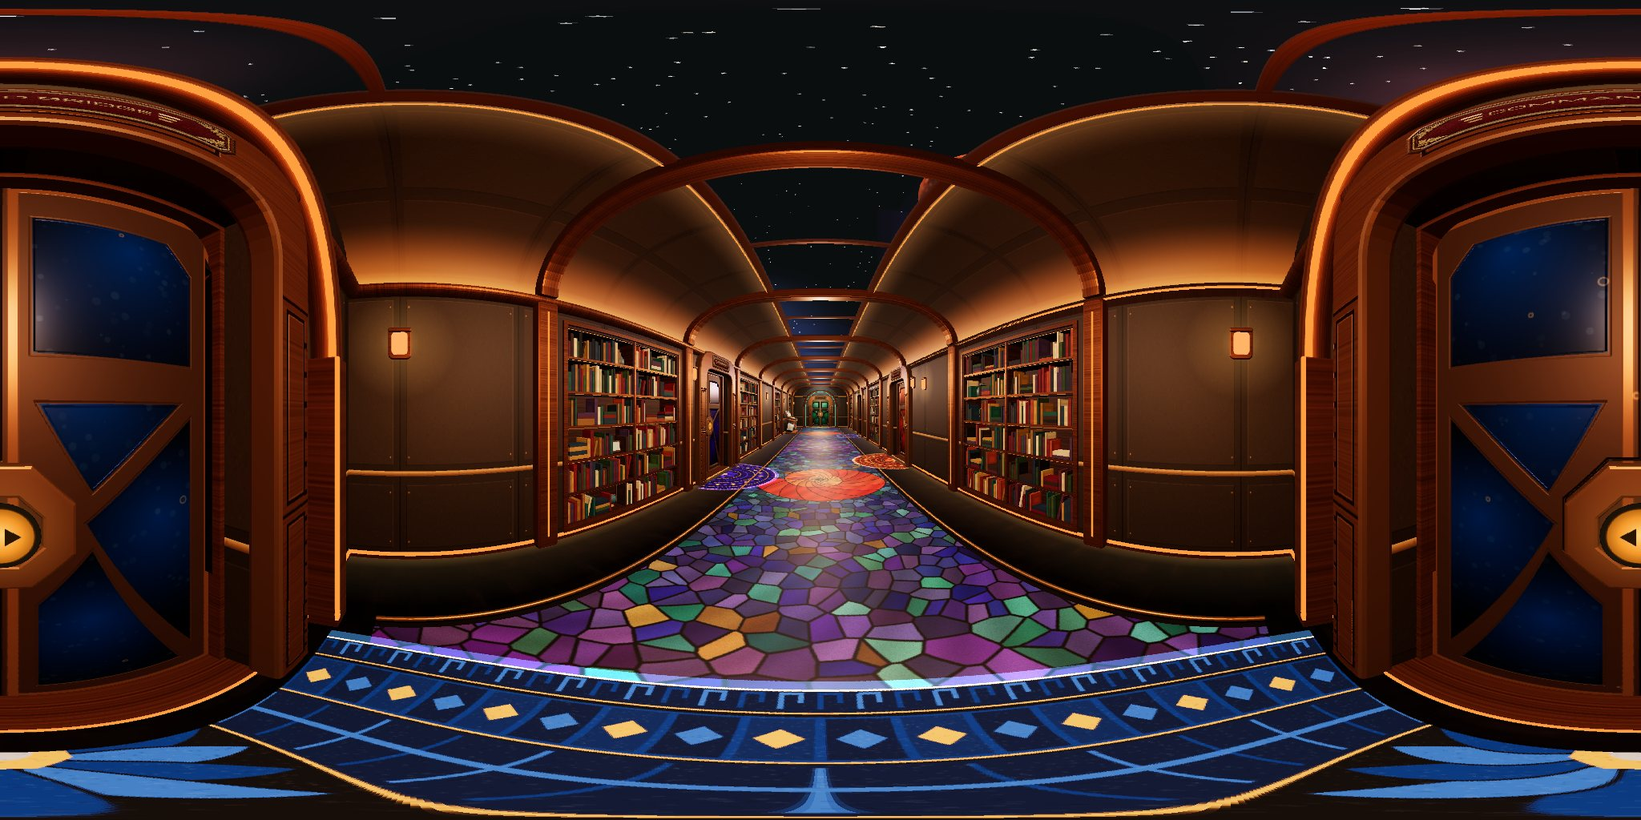
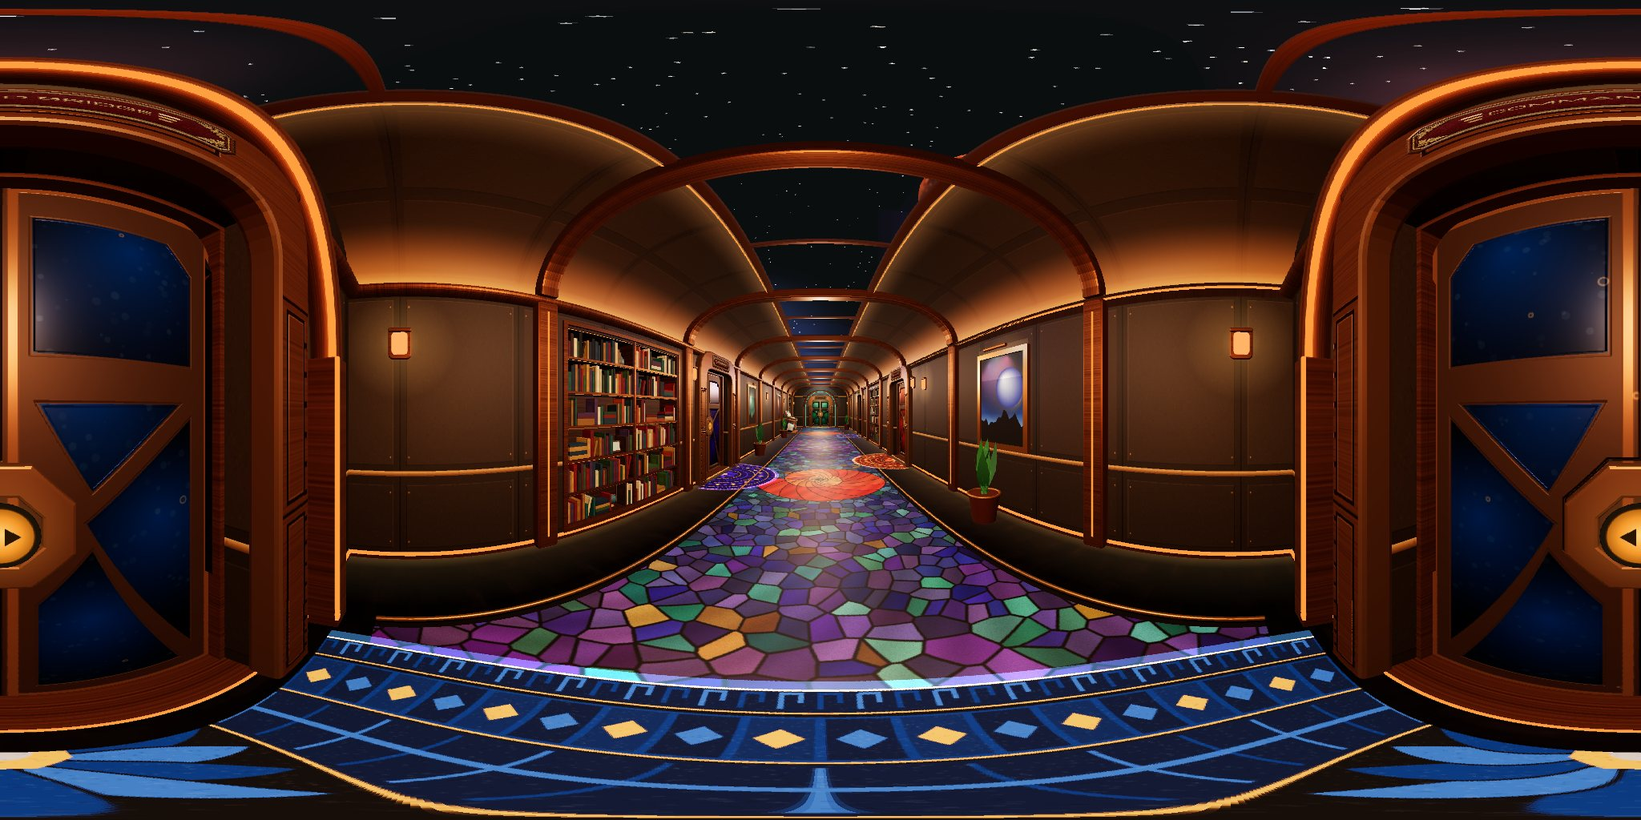
Corridor: paintings + potted plants in the freed alcoves; all portal photos regenerated
Claude-Session: https://claude.ai/code/session_015swmRW9rk9HZt8JyLRwsXT

Changed region(s): [[0.5625, 0.375, 0.6562, 0.6562], [0.4375, 0.4688, 0.5, 0.5625]]

diff --git a/index.html b/index.html
@@ -20,20 +20,20 @@
   <meta property="og:image:height" content="630">
   <meta property="og:image:alt" content="The copper SS Wayfarer, its teal library dome glowing, cruising above a night-side planet.">
   <meta name="twitter:card" content="summary_large_image">
-  <script src="textures.js?v=20261127d"></script>
+  <script src="textures.js?v=20261127e"></script>
   <script src="https://aframe.io/releases/1.5.0/aframe.min.js"></script>
-  <script src="mobile.js?v=20261127d"></script>
-  <script src="life.js?v=20261127d"></script>
-  <script src="manual.js?v=20261127d"></script>
-  <script src="menubar.js?v=20261127d"></script>
-  <script src="ai.js?v=20261127d"></script>
-  <script src="sound.js?v=20261127d"></script>
-  <script src="avatar.js?v=20261127d"></script>
-  <script src="door.js?v=20261127d"></script>
-  <script src="lcars.js?v=20261127d"></script>
-  <script src="crew.js?v=20261127d"></script>
-  <script src="repairs.js?v=20261127d"></script>
-  <script src="hyperspace.js?v=20261127d"></script>
+  <script src="mobile.js?v=20261127e"></script>
+  <script src="life.js?v=20261127e"></script>
+  <script src="manual.js?v=20261127e"></script>
+  <script src="menubar.js?v=20261127e"></script>
+  <script src="ai.js?v=20261127e"></script>
+  <script src="sound.js?v=20261127e"></script>
+  <script src="avatar.js?v=20261127e"></script>
+  <script src="door.js?v=20261127e"></script>
+  <script src="lcars.js?v=20261127e"></script>
+  <script src="crew.js?v=20261127e"></script>
+  <script src="repairs.js?v=20261127e"></script>
+  <script src="hyperspace.js?v=20261127e"></script>
   <style>
     * { margin: 0; padding: 0; box-sizing: border-box; }
     body { overflow: hidden; background: #000; }
@@ -466,7 +466,7 @@
 
       buildCeiling(root, M, aniso);
       buildFloor(root, M, aniso);
-      buildRugs(root, aniso);
+      buildRugs(root, aniso); buildArt(root);
       buildPortals(root, M);
 
       // soft light splashes on the wall around each sconce (additive, cheap)
@@ -568,6 +568,42 @@
       x.globalCompositeOperation = 'source-over';
       var t = mkTex(c); t.wrapS = t.wrapT = THREE.ClampToEdgeWrapping; return t;
     }
+    // ART + PLANTS in the alcoves freed by cutting the bookcases (user, Nov 26: fewer bookcases, more props): a painted canvas in a
+    // bronze frame with a little picture light, and a potted plant on the deck under it. Paintings are drawn here (original art).
+    function paintCanvas(kind) {
+      var c = document.createElement('canvas'); c.width = 384; c.height = 512; var x = c.getContext('2d'), sd = 7 + kind * 31, r = function () { sd = (sd * 16807) % 2147483647; return sd / 2147483647; };
+      var skies = [['#0b1030', '#3a1a5a', '#e07a4a'], ['#06222a', '#145a5a', '#e8c070'], ['#1a0a10', '#5a1a2a', '#ffb060'], ['#081028', '#1a3a7a', '#9ad8ff']][kind];
+      var g = x.createLinearGradient(0, 0, 0, 512); g.addColorStop(0, skies[0]); g.addColorStop(0.65, skies[1]); g.addColorStop(1, skies[2]); x.fillStyle = g; x.fillRect(0, 0, 384, 512);
+      for (var i = 0; i < 160; i++) { x.fillStyle = 'rgba(255,255,240,' + r() * 0.8 + ')'; x.fillRect(r() * 384, r() * 300, 1.5, 1.5); }
+      x.globalAlpha = 0.35; for (i = 0; i < 6; i++) { var ng = x.createRadialGradient(r() * 384, r() * 260, 0, 192, 160, 160 + r() * 80); ng.addColorStop(0, ['#ff7ad0', '#7affe0', '#ffd27a', '#9a8aff'][(kind + i) % 4]); ng.addColorStop(1, 'rgba(0,0,0,0)'); x.fillStyle = ng; x.fillRect(0, 0, 384, 512); } x.globalAlpha = 1;
+      var pr = 60 + kind * 18, px = 110 + kind * 50, py = 150 + (kind % 2) * 40, pg = x.createRadialGradient(px - pr * 0.4, py - pr * 0.4, 4, px, py, pr);
+      pg.addColorStop(0, ['#ffd0a0', '#c8fff0', '#ffe0b0', '#d0e8ff'][kind]); pg.addColorStop(1, ['#8a3a20', '#1a6a5a', '#7a2a10', '#2a3a8a'][kind]); x.fillStyle = pg; x.beginPath(); x.arc(px, py, pr, 0, 6.283); x.fill();
+      if (kind % 2 === 0) { x.strokeStyle = 'rgba(255,220,170,.55)'; x.lineWidth = 3; x.beginPath(); x.ellipse(px, py, pr * 1.7, pr * 0.32, -0.3, 0, 6.283); x.stroke(); }
+      x.fillStyle = '#0a0608'; x.beginPath(); x.moveTo(0, 512); for (var k = 0; k <= 384; k += 24) x.lineTo(k, 400 - r() * 70 - Math.sin(k / 50 + kind) * 20); x.lineTo(384, 512); x.fill();   // horizon ridge
+      for (i = 0; i < 9000; i++) { x.fillStyle = 'rgba(' + (r() < 0.5 ? '0,0,0' : '255,240,220') + ',' + r() * 0.05 + ')'; x.fillRect(r() * 384, r() * 512, 2, 2); }   // brush texture
+      var t = new THREE.CanvasTexture(c); t.colorSpace = THREE.SRGBColorSpace; return t;
+    }
+    function buildArt(root) {
+      var SPOTS = [{ W: 'L', c: -3 }, { W: 'L', c: 3 }, { W: 'R', c: -9 }, { W: 'R', c: 9 }];
+      var bronze = new THREE.MeshStandardMaterial({ color: 0xc08040, metalness: 0.85, roughness: 0.32 }), potM = new THREE.MeshStandardMaterial({ color: 0x6a3a22, metalness: 0.5, roughness: 0.45 });
+      var leafM = [0x2f6a34, 0x3f8a3e, 0x245a30].map(function (c) { return new THREE.MeshStandardMaterial({ color: c, roughness: 0.7, side: THREE.DoubleSide }); });
+      var leafG = new THREE.PlaneGeometry(0.16, 0.62, 1, 4); leafG.translate(0, 0.31, 0);
+      var lp = leafG.attributes.position; for (var i = 0; i < lp.count; i++) { var yy = lp.getY(i); lp.setX(i, lp.getX(i) * Math.sin(Math.PI * yy / 0.62 + 0.05)); lp.setZ(i, yy * yy * 0.5); }
+      leafG.computeVertexNormals();
+      SPOTS.forEach(function (q, n) {
+        var W = WALLS[q.W], g = new THREE.Group(); g.position.set(W.s * (W.base - 0.06), 0, q.c); g.rotation.y = W.s < 0 ? Math.PI / 2 : -Math.PI / 2; root.add(g);
+        var art = new THREE.Mesh(new THREE.PlaneGeometry(0.96, 1.28), new THREE.MeshStandardMaterial({ map: paintCanvas(n), roughness: 0.8, emissive: 0xffffff, emissiveMap: null, emissiveIntensity: 0 }));
+        art.material.emissiveMap = art.material.map; art.material.emissiveIntensity = 0.35; art.position.set(0, 1.75, 0.04); g.add(art);
+        [[0, 0.68, 1.12, 0.08], [0, -0.68, 1.12, 0.08], [-0.52, 0, 0.08, 1.44], [0.52, 0, 0.08, 1.44]].forEach(function (f) { var b = new THREE.Mesh(new THREE.BoxGeometry(f[2], f[3], 0.06), bronze); b.position.set(f[0], 1.75 + f[1], 0.04); g.add(b); });
+        var lamp = new THREE.Mesh(new THREE.CylinderGeometry(0.025, 0.025, 0.5, 10), bronze); lamp.rotation.z = Math.PI / 2; lamp.position.set(0, 2.5, 0.16); g.add(lamp);
+        var glow = new THREE.Mesh(new THREE.PlaneGeometry(1.1, 0.5), new THREE.MeshBasicMaterial({ color: 0xffb060, transparent: true, opacity: 0.12, blending: THREE.AdditiveBlending, depthWrite: false })); glow.position.set(0, 2.3, 0.05); g.add(glow);
+        var pot = new THREE.Mesh(new THREE.CylinderGeometry(0.22, 0.16, 0.42, 20), potM); pot.position.set(0, 0.21, 0.34); g.add(pot);
+        var rim = new THREE.Mesh(new THREE.TorusGeometry(0.22, 0.02, 8, 24), bronze); rim.rotation.x = Math.PI / 2; rim.position.set(0, 0.42, 0.34); g.add(rim);
+        for (var k = 0; k < 14; k++) { var lf = new THREE.Mesh(leafG, leafM[k % 3]), a = k / 14 * Math.PI * 2 + n; lf.position.set(Math.cos(a) * 0.05, 0.4, 0.34 + Math.sin(a) * 0.05);
+          lf.rotation.set(0, -a + Math.PI / 2, 0); lf.rotateX(-0.25 - (k % 3) * 0.18); lf.scale.setScalar(0.8 + (k % 4) * 0.15); g.add(lf); }
+      });
+    }
+
     function buildRugs(root, aniso) {
       var RR = 1.3;
       DOORS.forEach(function (d, i) {

diff --git a/bridge.html b/bridge.html
@@ -21,19 +21,19 @@
   <meta property="og:image:alt" content="The copper SS Wayfarer, its teal library dome glowing, cruising above a night-side planet.">
   <meta name="twitter:card" content="summary_large_image">
   <script src="https://aframe.io/releases/1.5.0/aframe.min.js"></script>
-  <script src="mobile.js?v=20261127d"></script>
-  <script src="life.js?v=20261127d"></script>
-  <script src="manual.js?v=20261127d"></script>
-  <script src="menubar.js?v=20261127d"></script>
-  <script src="ai.js?v=20261127d"></script>
-  <script src="sound.js?v=20261127d"></script>
-  <script src="avatar.js?v=20261127d"></script>
-  <script src="door.js?v=20261127d"></script>
-  <script src="hyperspace.js?v=20261127d"></script>
-  <script src="shipskin.js?v=20261127d"></script>
-  <script src="lcars.js?v=20261127d"></script>
-  <script src="crew.js?v=20261127d"></script>
-  <script src="repairs.js?v=20261127d"></script>
+  <script src="mobile.js?v=20261127e"></script>
+  <script src="life.js?v=20261127e"></script>
+  <script src="manual.js?v=20261127e"></script>
+  <script src="menubar.js?v=20261127e"></script>
+  <script src="ai.js?v=20261127e"></script>
+  <script src="sound.js?v=20261127e"></script>
+  <script src="avatar.js?v=20261127e"></script>
+  <script src="door.js?v=20261127e"></script>
+  <script src="hyperspace.js?v=20261127e"></script>
+  <script src="shipskin.js?v=20261127e"></script>
+  <script src="lcars.js?v=20261127e"></script>
+  <script src="crew.js?v=20261127e"></script>
+  <script src="repairs.js?v=20261127e"></script>
   <script>if (/[?&]from=flight/.test(location.search)) document.documentElement.className += ' from-flight'; if (/[?&]from=fly/.test(location.search)) document.documentElement.className += ' from-fly';</script>
   <style>html.from-fly, html.from-fly body { background:#1a0e06; } #fly-fade { position:fixed; inset:0; z-index:59; pointer-events:none; opacity:0; background:radial-gradient(circle at 50% 50%, #ffb060 0%, #5a2a0c 45%, #120804 100%); } html.from-fly #fly-fade { opacity:1; }</style>
   <style>

diff --git a/library.html b/library.html
@@ -23,24 +23,24 @@
   <meta name="theme-color" content="#000208">
   <meta name="apple-mobile-web-app-capable" content="yes">
   <meta name="mobile-web-app-capable" content="yes">
-  <script src="textures.js?v=20261127d"></script>
+  <script src="textures.js?v=20261127e"></script>
   <script src="https://aframe.io/releases/1.5.0/aframe.min.js"></script>
-  <script src="brain.js?v=20261127d"></script>
-  <script src="mobile.js?v=20261127d"></script>
-  <script src="life.js?v=20261127d"></script>
-  <script src="manual.js?v=20261127d"></script>
-  <script src="menubar.js?v=20261127d"></script>
-  <script src="ai.js?v=20261127d"></script>
-  <script src="sound.js?v=20261127d"></script>
-  <script src="avatar.js?v=20261127d"></script>
-  <script src="door.js?v=20261127d"></script>
-  <script src="lcars.js?v=20261127d"></script>
-  <script src="starmap.js?v=20261127d"></script>
-  <script src="wp-console.js?v=20261127d"></script>
-  <script src="crew.js?v=20261127d"></script>
-  <script src="repairs.js?v=20261127d"></script>
-  <script src="props.js?v=20261127d"></script>
-  <script src="hyperspace.js?v=20261127d"></script>
+  <script src="brain.js?v=20261127e"></script>
+  <script src="mobile.js?v=20261127e"></script>
+  <script src="life.js?v=20261127e"></script>
+  <script src="manual.js?v=20261127e"></script>
+  <script src="menubar.js?v=20261127e"></script>
+  <script src="ai.js?v=20261127e"></script>
+  <script src="sound.js?v=20261127e"></script>
+  <script src="avatar.js?v=20261127e"></script>
+  <script src="door.js?v=20261127e"></script>
+  <script src="lcars.js?v=20261127e"></script>
+  <script src="starmap.js?v=20261127e"></script>
+  <script src="wp-console.js?v=20261127e"></script>
+  <script src="crew.js?v=20261127e"></script>
+  <script src="repairs.js?v=20261127e"></script>
+  <script src="props.js?v=20261127e"></script>
+  <script src="hyperspace.js?v=20261127e"></script>
   <style>
     * { margin: 0; padding: 0; box-sizing: border-box; }
     body { overflow: hidden; background: #000; }

diff --git a/lounge.html b/lounge.html
@@ -20,23 +20,23 @@
   <meta property="og:image:height" content="630">
   <meta property="og:image:alt" content="The copper SS Wayfarer, its teal library dome glowing, cruising above a night-side planet.">
   <meta name="twitter:card" content="summary_large_image">
-  <script src="textures.js?v=20261127d"></script>
+  <script src="textures.js?v=20261127e"></script>
   <script src="https://aframe.io/releases/1.5.0/aframe.min.js"></script>
-  <script src="mobile.js?v=20261127d"></script>
-  <script src="life.js?v=20261127d"></script>
-  <script src="manual.js?v=20261127d"></script>
-  <script src="menubar.js?v=20261127d"></script>
-  <script src="ai.js?v=20261127d"></script>
-  <script src="sound.js?v=20261127d"></script>
-  <script src="avatar.js?v=20261127d"></script>
-  <script src="door.js?v=20261127d"></script>
-  <script src="lcars.js?v=20261127d"></script>
-  <script src="crew.js?v=20261127d"></script>
-  <script src="repairs.js?v=20261127d"></script>
-  <script src="cards.js?v=20261127d"></script>
-  <script src="alien-tv.js?v=20261127d"></script>
-  <script src="props.js?v=20261127d"></script>
-  <script src="hyperspace.js?v=20261127d"></script>
+  <script src="mobile.js?v=20261127e"></script>
+  <script src="life.js?v=20261127e"></script>
+  <script src="manual.js?v=20261127e"></script>
+  <script src="menubar.js?v=20261127e"></script>
+  <script src="ai.js?v=20261127e"></script>
+  <script src="sound.js?v=20261127e"></script>
+  <script src="avatar.js?v=20261127e"></script>
+  <script src="door.js?v=20261127e"></script>
+  <script src="lcars.js?v=20261127e"></script>
+  <script src="crew.js?v=20261127e"></script>
+  <script src="repairs.js?v=20261127e"></script>
+  <script src="cards.js?v=20261127e"></script>
+  <script src="alien-tv.js?v=20261127e"></script>
+  <script src="props.js?v=20261127e"></script>
+  <script src="hyperspace.js?v=20261127e"></script>
   <style>
     * { margin: 0; padding: 0; box-sizing: border-box; }
     body { overflow: hidden; background: #000; }

diff --git a/holodeck.html b/holodeck.html
@@ -31,21 +31,21 @@
     g.beginPath(); g.moveTo(0,0); g.lineTo(0,128); g.stroke();
     window.GRID_TEX = gc.toDataURL();
   </script>
-  <script src="textures.js?v=20261127d"></script>
+  <script src="textures.js?v=20261127e"></script>
   <script src="https://aframe.io/releases/1.5.0/aframe.min.js"></script>
-  <script src="mobile.js?v=20261127d"></script>
-  <script src="life.js?v=20261127d"></script>
-  <script src="manual.js?v=20261127d"></script>
-  <script src="menubar.js?v=20261127d"></script>
-  <script src="ai.js?v=20261127d"></script>
-  <script src="sound.js?v=20261127d"></script>
-  <script src="avatar.js?v=20261127d"></script>
-  <script src="door.js?v=20261127d"></script>
-  <script src="lcars.js?v=20261127d"></script>
-  <script src="crew.js?v=20261127d"></script>
-  <script src="repairs.js?v=20261127d"></script>
-  <script src="props.js?v=20261127d"></script>
-  <script src="holo-games.js?v=20261127d"></script>
+  <script src="mobile.js?v=20261127e"></script>
+  <script src="life.js?v=20261127e"></script>
+  <script src="manual.js?v=20261127e"></script>
+  <script src="menubar.js?v=20261127e"></script>
+  <script src="ai.js?v=20261127e"></script>
+  <script src="sound.js?v=20261127e"></script>
+  <script src="avatar.js?v=20261127e"></script>
+  <script src="door.js?v=20261127e"></script>
+  <script src="lcars.js?v=20261127e"></script>
+  <script src="crew.js?v=20261127e"></script>
+  <script src="repairs.js?v=20261127e"></script>
+  <script src="props.js?v=20261127e"></script>
+  <script src="holo-games.js?v=20261127e"></script>
   <style>
     * { margin:0; padding:0; box-sizing:border-box; }
     body { overflow:hidden; background:#000; }

diff --git a/media.html b/media.html
@@ -21,18 +21,18 @@
   <meta property="og:image:alt" content="The copper SS Wayfarer, its teal library dome glowing, cruising above a night-side planet.">
   <meta name="twitter:card" content="summary_large_image">
   <script src="https://aframe.io/releases/1.5.0/aframe.min.js"></script>
-  <script src="mobile.js?v=20261127d"></script>
-  <script src="life.js?v=20261127d"></script>
-  <script src="manual.js?v=20261127d"></script>
-  <script src="menubar.js?v=20261127d"></script>
-  <script src="ai.js?v=20261127d"></script>
-  <script src="sound.js?v=20261127d"></script>
-  <script src="avatar.js?v=20261127d"></script>
-  <script src="door.js?v=20261127d"></script>
-  <script src="lcars.js?v=20261127d"></script>
-  <script src="crew.js?v=20261127d"></script>
-  <script src="repairs.js?v=20261127d"></script>
-  <script src="props.js?v=20261127d"></script>
+  <script src="mobile.js?v=20261127e"></script>
+  <script src="life.js?v=20261127e"></script>
+  <script src="manual.js?v=20261127e"></script>
+  <script src="menubar.js?v=20261127e"></script>
+  <script src="ai.js?v=20261127e"></script>
+  <script src="sound.js?v=20261127e"></script>
+  <script src="avatar.js?v=20261127e"></script>
+  <script src="door.js?v=20261127e"></script>
+  <script src="lcars.js?v=20261127e"></script>
+  <script src="crew.js?v=20261127e"></script>
+  <script src="repairs.js?v=20261127e"></script>
+  <script src="props.js?v=20261127e"></script>
   <style>
     * { margin: 0; padding: 0; box-sizing: border-box; }
     body { overflow: hidden; background: #000; }

diff --git a/station.html b/station.html
@@ -14,14 +14,14 @@
   <link rel="icon" href="/aspentrail/icons/favicon.ico?v=2">
   <script>if (/[?&]from=dock/.test(location.search)) document.documentElement.className += ' from-dock';</script>
   <script src="https://aframe.io/releases/1.5.0/aframe.min.js"></script>
-  <script src="mobile.js?v=20261127d"></script>
-  <script src="life.js?v=20261127d"></script>
-  <script src="manual.js?v=20261127d"></script>
-  <script src="menubar.js?v=20261127d"></script>
-  <script src="sound.js?v=20261127d"></script>
-  <script src="avatar.js?v=20261127d"></script>
-  <script src="lcars.js?v=20261127d"></script>
-  <script src="missions.js?v=20261127d"></script>
+  <script src="mobile.js?v=20261127e"></script>
+  <script src="life.js?v=20261127e"></script>
+  <script src="manual.js?v=20261127e"></script>
+  <script src="menubar.js?v=20261127e"></script>
+  <script src="sound.js?v=20261127e"></script>
+  <script src="avatar.js?v=20261127e"></script>
+  <script src="lcars.js?v=20261127e"></script>
+  <script src="missions.js?v=20261127e"></script>
   <style>
     * { margin: 0; padding: 0; box-sizing: border-box; }
     body { overflow: hidden; background: #000; }
@@ -441,6 +441,6 @@
   }
 }());
 </script>
-<script src="hiveport-games.js?v=20261127d"></script>
+<script src="hiveport-games.js?v=20261127e"></script>
 </body>
 </html>

diff --git a/station-ember-room.html b/station-ember-room.html
@@ -14,11 +14,11 @@
   <link rel="icon" href="/aspentrail/icons/favicon.ico?v=2">
   <script>if (/[?&]from=dock/.test(location.search)) document.documentElement.className += ' from-dock';</script>
   <script src="https://aframe.io/releases/1.5.0/aframe.min.js"></script>
-  <script src="mobile.js?v=20261127d"></script>
-  <script src="sound.js?v=20261127d"></script>
-  <script src="avatar.js?v=20261127d"></script>
-  <script src="lcars.js?v=20261127d"></script>
-  <script src="missions.js?v=20261127d"></script>
+  <script src="mobile.js?v=20261127e"></script>
+  <script src="sound.js?v=20261127e"></script>
+  <script src="avatar.js?v=20261127e"></script>
+  <script src="lcars.js?v=20261127e"></script>
+  <script src="missions.js?v=20261127e"></script>
   <style>
     * { margin: 0; padding: 0; box-sizing: border-box; }
     body { overflow: hidden; background: #000; }

diff --git a/minigame.html b/minigame.html
@@ -22,10 +22,10 @@
   <meta name="twitter:card" content="summary_large_image">
   <script src="https://cdnjs.cloudflare.com/ajax/libs/three.js/r128/three.min.js"></script>
   <script src="https://cdn.jsdelivr.net/npm/three@0.128.0/examples/js/loaders/GLTFLoader.js"></script>
-  <script src="shipskin.js?v=20261127d"></script>
-  <script src="missions.js?v=20261127d"></script>
-  <script src="sound.js?v=20261127d"></script>
-  <script src="life.js?v=20261127d"></script>
+  <script src="shipskin.js?v=20261127e"></script>
+  <script src="missions.js?v=20261127e"></script>
+  <script src="sound.js?v=20261127e"></script>
+  <script src="life.js?v=20261127e"></script>
   <script>if (/[?&]from=(bridge|station)/.test(location.search)) document.documentElement.className += ' from-bridge';</script>
   <style>
     * { margin: 0; padding: 0; box-sizing: border-box; }

diff --git a/hangar.html b/hangar.html
@@ -14,7 +14,7 @@
   <link rel="icon" href="/aspentrail/icons/favicon.ico?v=2">
   <script src="https://cdnjs.cloudflare.com/ajax/libs/three.js/r128/three.min.js"></script>
   <script src="https://cdn.jsdelivr.net/npm/three@0.128.0/examples/js/loaders/GLTFLoader.js"></script>
-  <script src="shipskin.js?v=20261127d"></script>
+  <script src="shipskin.js?v=20261127e"></script>
   <script src="https://cdn.jsdelivr.net/npm/three@0.128.0/examples/js/controls/OrbitControls.js"></script>
   <style>
     * { margin: 0; padding: 0; box-sizing: border-box; }

diff --git a/CLAUDE.md b/CLAUDE.md
@@ -60,7 +60,7 @@ Rules drawn from them:
 - A-Frame 1.5.0 from the aframe.io CDN, no build step, plain HTML/JS
 - GitHub Pages deploys from branch `claude/hello-mssbj4` (site: spawnshark.github.io/aspentrail).
   Session work happens on a `claude/...` branch; it is live only after it reaches `claude/hello-mssbj4`.
-- Local scripts are loaded with `?v=<date+letter>` (Safari cached old door.js/mobile.js) — bump it in every page on each push (now 20261127d).
+- Local scripts are loaded with `?v=<date+letter>` (Safari cached old door.js/mobile.js) — bump it in every page on each push (now 20261127e).
 - Shared scripts: `textures.js` (procedural textures), `mobile.js` (touch controls, Nov 24 v3 — user: "like it was in the
   beginning"): NO bar. Two floating frosted-glass thumbsticks in the bottom corners: left = analog walk joystick, right = look
   stick. MENU BAR (Nov 25, user: "like the Mac's menu bar"): #wf-btns is a slim 30 px frosted bar across the TOP on every
@@ -365,7 +365,7 @@ Record of everything asked for; tick items off as they ship.
 - [x] COMMAND DECK: no bookshelves (wallDisplays() instead of plantShelfAt: per wall bay a 1.5×0.84 LCARS screen, two small ones and a status strip in bronze frames, 6 shared lcars textures); NAVIGATOR = giant barred-spiral Milky Way hologram (buildOrb: 14k / 6k-phone stars, R 3.3, tilt 0.78, bar + 4 log-spiral arms, YOU-ARE-HERE cyan pulse, cone + 3 rings) over a bronze emitter at the bow (ORB_Z −6.4, NAV_C y 2.35); blooms while navigating (NAV_FX.want); the kit Planet_Selector GLB is no longer loaded; tap → sit, then the galactic map
 - [x] Ship/deck map (life.js renderMap): blueprint SVG 520×860 — true room shapes (Bridge outline from WAYFARER.bounds, round rooms, square Holodeck grid) with REAL furniture footprints from maps/deck.json (baked from each page's mobile.js solids scan, contained boxes merged; REBAKE when a room's furniture changes), corridor + runner + bookcases, doorways, hull with engine pods, navigator galaxy; LIVE layer every 0.4 s: you (cyan arrow = facing), droids/cats with names, blinking ⚠ faults; rooms scale SR 7 px/m, corridor stretched KC 20 px/m
 - [x] Lounge ALIEN TV (`alien-tv.js`): 7 ORIGINAL canvas-drawn channels (KNN K'Vetar news + ticker, Glorpo's Kitchen, Nebula Nature Hour, Cryovale Weather, Bioship Grand Prix, Mandible Mints ad, The Talking Rock), scanlines, tap = static burst + next channel, babble/jingles only within 8.5 m; the old browser panel is no longer opened. WINDOW: wall gap ±28.6° (theta-start 208.6 / length 302.8), 8 × 4.4 m rounded-rect opening with bronze extruded frame, amber glow line, two mullions
-- [~] More props all over the ship [ ]; Library bookshelves with more variety/colour [x] (library.html shelfTexture: 5 painted variants; material re-applied after A-Frame's own lands); FEWER bookcases in the corridor [x] (SHELVES 7 → 3: L −9, R 0, L 9; maps/deck.json shelves updated)
+- [~] More props all over the ship [~ corridor done: index.html buildArt() = 4 original painted canvases (paintCanvas: planets/nebulae/ridges) in bronze frames with picture lights + potted plants in the freed alcoves L −3, L 3, R −9, R 9; other rooms still to do]; Library bookshelves with more variety/colour [x] (library.html shelfTexture: 5 painted variants; material re-applied after A-Frame's own lands); FEWER bookcases in the corridor [x] (SHELVES 7 → 3: L −9, R 0, L 9; maps/deck.json shelves updated)
 - [ ] BELOW DECK (new level, industrial alien vibe) for all new rooms (quarters, galley, medbay, cruiser hangar…); the two Library back doors become two STAIRCASES down to it
 - [x] STAR GARDEN → `starmap.js` (library.html only): bronze STAR MAP lectern at the centre of the glass floor; tap → beam to the dome, galaxy (16k / 7k-phone stars, bar + 4 arms, R 7 at y 6.1 under the dome) unfolds while your view tilts up to pitch 1.25; every nav/galaxy.json system as a labelled star with its worlds' emoji, cyan WAYFARER-IS-HERE ring at the 'wf-near' system; drag to spin/tilt, wheel/pinch zoom; ✕ CLOSE reverses. Holodeck no longer loads stargarden.js (file kept, unused) and its SIM LIBRARY entry is gone
 - [x] NAVIGATOR redesign (bridge.html buildOrb: ORB_Z −3.5, ORB_S 2.0 on its own bronze plinth r 1.64 joined to the dais by a neck; NAV_FX holo cone + 3 gyroscope rings + rising sparks that spin up while navigating (NAV_FX.want); tap → WF_CMD.navigator() = sit then openNav; seated #cmd-hud: Cruising (wf-mode2 explore + launch) / Hunting (combat) / Ship (hangar.html?from=bridge, back link → Bridge) / Navigate / Stand; keys N L K X; crew ring bulges round the plinth): much bigger, at the front of the helm, integrated with the captain's chair (not separate consoles); nicer + animations; planets pickable only once inside the navigator; never shoved through the chair; tapping the navigator = sit in the chair. Tapping the CHAIR → menu: Cruising (peaceful) / Hunting (fighter) / Ship inspect (view ship) / Navigate (turn to the navigator, pick a destination, travel)
